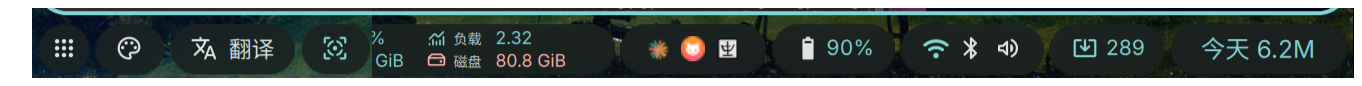
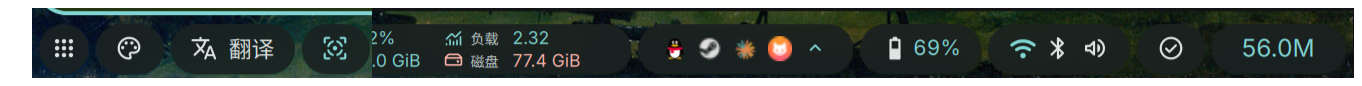
同步插件改动（状态栏默认只显示数字）并更新界面截图与说明

diff --git a/assets/dms-plugins/CachyosAgents/Usage.js b/assets/dms-plugins/CachyosAgents/Usage.js
@@ -315,7 +315,10 @@ function barText(records, settings) {
     if (withData.length === 0)
         return rows.length > 0 ? "—" : "";
 
-    var mode = MODES.indexOf(settings.displayMode) >= 0 ? settings.displayMode : "today";
+    // 默认就是"只显示数字"：状态栏是给一眼扫过的地方，"今天/近 7 天"这种前缀交给弹窗
+    // 和 tooltip 说。老设置里存的非法值（例如已删除的 "icon"）也回落到 bare，
+    // 绝不能因此让状态栏空掉或显示异常内容。
+    var mode = MODES.indexOf(settings.displayMode) >= 0 ? settings.displayMode : "bare";
     var range = rangeFor(withData, mode === "bare" ? "today" : mode);
 
     // 没有任何真实数据就显示占位符：绝不出现"累计 0"这种伪造出来的数字。

diff --git a/assets/dms-plugins/CachyosAgents/CachyosAgentsSettings.qml b/assets/dms-plugins/CachyosAgents/CachyosAgentsSettings.qml
@@ -55,12 +55,12 @@ PluginSettings {
     SelectionSetting {
         settingKey: "displayMode"
         label: "状态栏显示"
-        defaultValue: "today"
+        defaultValue: "bare"
         options: [
+            { label: "只显示数字（默认，不带日期）", value: "bare" },
             { label: "今天（无数据时显示最近一天）", value: "today" },
             { label: "近 7 天", value: "week" },
-            { label: "累计 token", value: "total" },
-            { label: "只显示数字（不带日期）", value: "bare" }
+            { label: "累计 token", value: "total" }
         ]
     }
     SelectionSetting {

diff --git a/assets/dms-plugins/CachyosAgents/README.md b/assets/dms-plugins/CachyosAgents/README.md
@@ -11,7 +11,7 @@
 
 ## 它显示什么
 
-- **状态栏**：**只显示 token 用量**——没有图标、没有金额。按设置显示"今天 / 近 7 天 / 累计 / 只显示数字"；当天没有用量时回落到最近有数据的一天并标出日期（例如 `10-01 12.0M`），而不是显示一个会误导人的 0。 默认把**所有已启用且有数据的 agent 合计**成一个数；也可以在设置里把统计范围钉到某一个 agent（例如只看 DSH）——合计时单个 agent 的份额是看不出来的。
+- **状态栏**：**只显示 token 用量**——没有图标、没有金额。**默认只显示数字**（不带日期），也可以在设置里改成"今天 / 近 7 天 / 累计"——那几种模式会带日期前缀；当天没有用量时回落到最近有数据的一天，而不是显示一个会误导人的 0。 默认把**所有已启用且有数据的 agent 合计**成一个数；也可以在设置里把统计范围钉到某一个 agent（例如只看 DSH）——合计时单个 agent 的份额是看不出来的。
 - **弹窗**：每个 agent 一张卡片——今天与累计的 token/费用、会话数与提示数、额度条（若采集器能拿到）、按费用排序的模型明细、最近 7 天的**折线图**（Canvas 绘制，末点高亮）。没有任何采集器的 agent 不会占一张空卡片。
 
 数据缺失时显示"未采集 / 无数据"，不会把没采到渲染成 0：只有采集器真的产出了统计（`hasLocalStats`）才会显示数字，全 0 的空壳记录按缺失处理。
@@ -47,7 +47,7 @@ dms ipc call plugin-scan scan
 | --- | --- | --- |
 | 显示 Claude Code / Codex / OpenCode / DSH | 全开 | 关掉的 agent 不出现在状态栏与弹窗里 |
 | 状态栏统计范围 | 全部 agent 合计 | 可钉到某一个 agent（如只看 DSH） |
-| 状态栏显示 | 今天 | 今天（无数据时显示最近一天）/ 近 7 天 / 累计 token / 只显示数字 |
+| 状态栏显示 | 只显示数字 | 只显示数字 / 今天（无数据时显示最近一天）/ 近 7 天 / 累计 token |
 | 自动刷新间隔 | 15 分钟 | 5 分钟 / 15 分钟 / 1 小时；到点会重新采集 |
 | 每个 agent 显示的模型数 | 3 | 1 / 3 / 5 / 全部 |
 

diff --git a/README.md b/README.md
@@ -37,8 +37,9 @@ Kitty；DMS 负责主面板、启动器、通知、锁屏和动态主题，Quick
 
 ## 界面预览
 
-**状态栏**。底栏右侧是本项目的 AI 用量控件（下图最右端 `今天 6.2M`）：只显示 token 数量，
-不显示金额和图标；点开可看每个 agent 的明细。为保护隐私，截图里的窗口标题与本机网络信息已裁掉。
+**状态栏**。底栏右侧是本项目的 AI 用量控件（下图最右端 `56.0M`）：**默认只显示数字**——
+不带"今天/近 7 天"这类前缀，也不显示图标和金额（想把日期前缀加回来，在插件设置里改
+「状态栏显示」即可）；点开可看每个 agent 的明细。为保护隐私，截图里的窗口标题与本机网络信息已裁掉。
 
 ![状态栏](docs/images/bar.png)
 
